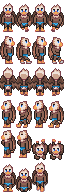
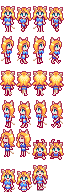
Have both male and femaled pngs

diff --git a/winter.py b/winter.py
@@ -1,0 +1,20 @@
+import json
+import shutil
+
+# Read the JSON file
+with open('content.json', 'r') as file:
+    data = json.load(file)
+
+# Get the array of dictionaries under "Changes"
+changes = data.get('Changes', [])
+
+# Iterate through each dictionary
+for change in changes:
+    # Check if the dictionary contains "FromFile" key
+    if 'FromFile' in change:
+        # Check if the "FromFile" string contains "_Winter"
+        if '_Winter.png' in change['FromFile']:
+            print(change['FromFile'])
+            #old_filename = change['FromFile'].replace('_Winter', '')
+
+            #shutil.copyfile(old_filename, change['FromFile'])
